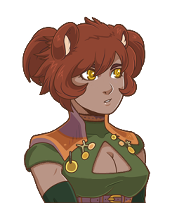
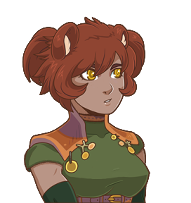
Better face swapping (#15)
* Face swapping updates

- Auto face swapping applies to both bust and non-bust dialogue
- Topless Simon support
- Uyae boob window updates requested by SL

* PR review fixes

Changed region(s): [[0.4712, 0.6798, 0.7068, 0.8571]]

diff --git a/Bust Config.rb b/Bust Config.rb
@@ -111,11 +111,6 @@ Busty::SUBSET_TO_BUST = [
     face_name: "Ulrissa emo",
     face_indexes: [6],
   },
-  {
-    character_name: "Vera",
-    face_name: "Y DS_Actor17",
-    face_indexes: [7],
-  },
   # First half of Vera's faces are actually other characters
   {
     character_name: nil,
@@ -156,24 +151,59 @@ Busty::SUBSET_TO_BUST = [
     face_indexes: [3],
   },
 ]
-# Special cheats for some characters
+
+# map from clothed Simon facesets to corresponding topless Simon
+Busty::TOPLESS_SIMON_MAP = {
+  "face002b" => "face002b_topless",
+  "1 Simon dark" => "face002b_topless",
+  "face002b2" => "face002b_topless2",
+  "1 Simon dark2" => "face002b_topless2",
+  "face002b dark" => "face002b_topless dark",
+  "1 Simon dark eyes" => "face002b_topless dark",
+  "face002b dark2" => "face002b_topless dark2",
+  "1 Simon dark eyes2" => "face002b_topless dark2",
+}
+Busty::TOPLESS_SIMON_MAP.values.uniq.each do |value|
+  Busty::FACE_TO_BUST[value] = "Simon topless"
+end
+# young Simon does not support disrobing
+Busty::SIMON_YOUNG_FACES = ["face002b","face002b dark"]
+
+# Automatically swap certain facesets depending on certain conditions.
+# NB this comes before face-to-bust mapping in character_from_face.
 class Window_Message < Window_Base
   def bust_face_name
+    # if Simon is using his almost-naked sprite, override with topless faceset, unless it's young Simon
+    topless_simon_face = Busty::TOPLESS_SIMON_MAP[$game_message.face_name]
+    if topless_simon_face && $game_actors[2].character_index == 2 && 
+        !($game_message.face_index == 7 && Busty::SIMON_YOUNG_FACES.include?($game_message.face_name))
+      return topless_simon_face
+    end
+    
+    # fix up Uyae's clothes after returning from first Zirantia trip
+    # see also character_from_face below
+    if $game_message.face_name == 'Uyae emo' && $game_switches[1481] # YHILIN III
+      return 'Uyae2 emo'
+    end
+    
     # Vera has the same expressions on different sheets, but with a different zoom level. Ensure we use the configured one.
-    if character_name == 'Vera' && $game_message.face_name != 'Vera emo'
+    if $game_message.face_name == 'Y DS_Actor17' && $game_message.face_index == 7
       return 'Vera emo'
     end
 
     $game_message.face_name
   end
 end
+
+# Automatically swap busts depending on certain conditions.
+# NB this step comes after faceset swapping in bust_face_name.
 module Busty
   class << self
     alias original_character_from_face character_from_face
     def character_from_face(face_name, face_index)
-      if face_name == 'Uyae emo' && $game_switches[1481] # YHILIN III
-        # fix up Uyae's clothes after returning from first Zirantia trip
-        return 'Uyae2'
+      if face_name == 'Uyae2 emo' && $game_switches[2081] # HOME BASE
+        # reinstate Uyae's boob window after travelling the world between ch3-4
+        return 'Uyae3'
       end
 
       original_character_from_face(face_name, face_index)
@@ -194,9 +224,6 @@ module Busty
       # True protagonist revealed
       # No switch that I'm aware of tracking that; so checking if Kai's quests are active instead
       return false if $game_party.quests.revealed?(5)
-
-      # Simon is using his almost naked sprite
-      return false if $game_actors[2].character_index == 2
 
       true
     end
@@ -848,6 +875,10 @@ Busty::CONFIG.merge!({
     face_offset_x: 64,
     face_offset_y: 45,
   },
+  "Simon topless" => {
+    face_offset_x: 64,
+    face_offset_y: 30,
+  },
   "Simon1" => {
     face_offset_x: 63,
     face_offset_y: 34,
@@ -953,6 +984,7 @@ Busty::CONFIG.merge!({
 Busty::CONFIG["Ulrissa2"] = Busty::CONFIG["Ulrissa"]
 # Uyae with fixed clothes
 Busty::CONFIG["Uyae2"] = Busty::CONFIG["Uyae"]
+Busty::CONFIG["Uyae3"] = Busty::CONFIG["Uyae"]
 # Dark Xestris
 Busty::CONFIG["Xestris2"] = Busty::CONFIG["Xestris"]
 # Xestris ear positions

diff --git a/Rachnera Message Bust.rb b/Rachnera Message Bust.rb
@@ -364,7 +364,7 @@ class Window_Message < Window_Base
   end
 
   def character_name
-    Busty::character_from_face($game_message.face_name, $game_message.face_index)
+    Busty::character_from_face(bust_face_name, bust_face_index)
   end
 
   def bust_offset_x
@@ -417,8 +417,8 @@ class Window_Message < Window_Base
   alias original_591_draw_face draw_face
   def draw_face(face_name, face_index, x, y, enabled = true)
     return if show_bust?
-    return original_591_draw_face(face_name, face_index, x + 2*standard_padding, y, enabled) if valid_context?
-    original_591_draw_face(face_name, face_index, x, y, enabled)
+    return original_591_draw_face(bust_face_name, face_index, x + 2*standard_padding, y, enabled) if valid_context?
+    original_591_draw_face(bust_face_name, face_index, x, y, enabled)
   end
   alias original_591_new_line_x new_line_x
   def new_line_x
